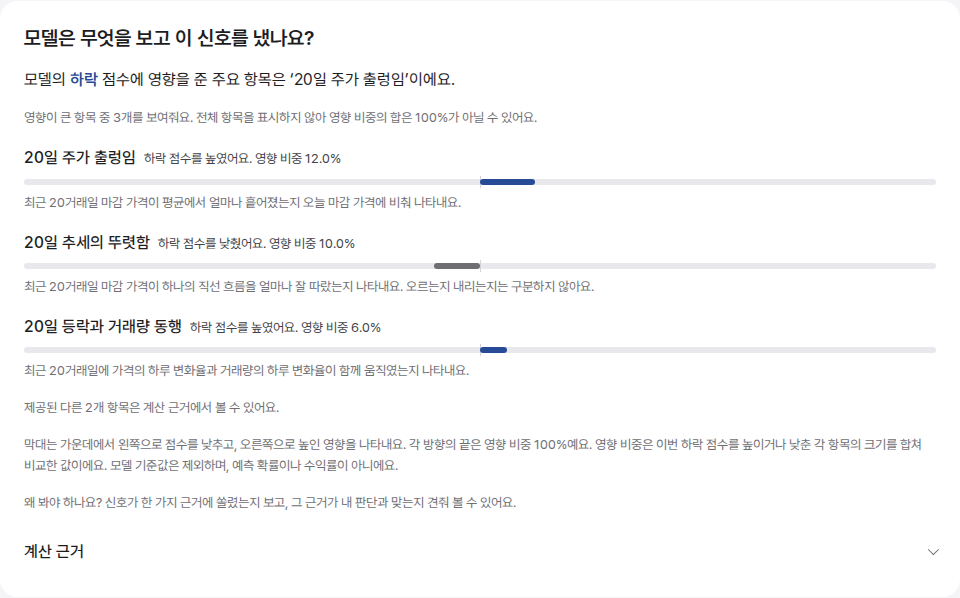
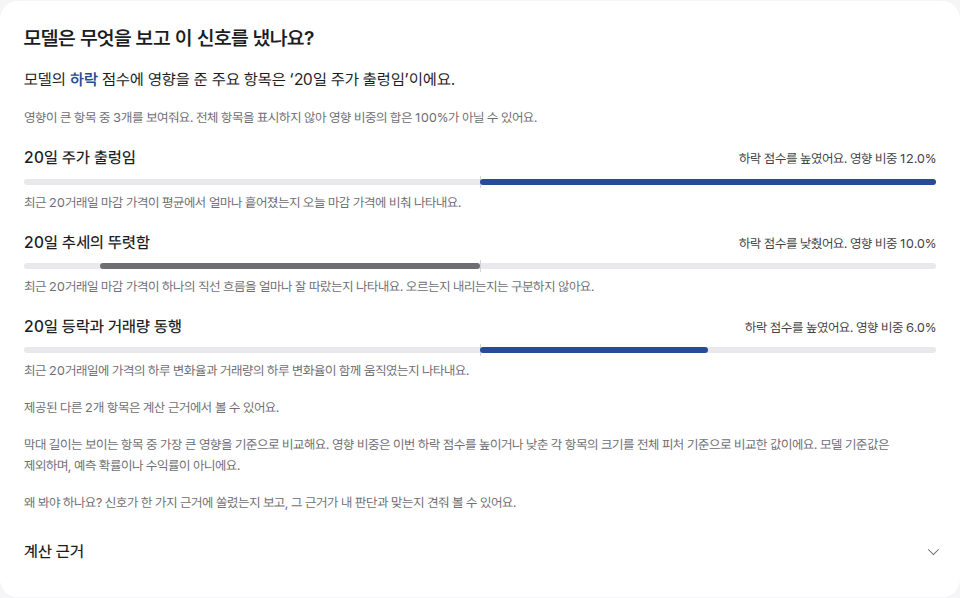
fix(web): preserve model reason layout and relative bars

diff --git a/frontend/app/components/insight-cards.tsx b/frontend/app/components/insight-cards.tsx
@@ -67,7 +67,7 @@ import {
 } from "@/lib/providers";
 import { CHART } from "@/lib/chart-colors";
 import ChangeText from "./change-text";
-import { changeMeta, contributionShare, contributionValue, contributionWord, formatShares, kstDay, signedPercent } from "@/lib/display";
+import { changeMeta, contributionValue, contributionWord, formatShares, kstDay, signedPercent } from "@/lib/display";
 import type { ChartSnapshot } from "@/lib/chart-public";
 import type { DataProvenance, PredictionReason, StockDetail, StyleAxes } from "@/lib/types";
 import { SourceTable } from "./source-line";
@@ -884,6 +884,7 @@ function ContributionPanel({
   // 본문은 상위 3개만 표시하되 비중의 분모는 서버가 보낸 전체 피처 합을 유지한다.
   const shown = features.slice(0, 3);
   const hiddenCount = features.length - shown.length;
+  const max = Math.max(...shown.map(feature => Math.abs(feature.contribution))) || 1;
 
   return (
     <>
@@ -898,25 +899,24 @@ function ContributionPanel({
       <ul className="m-0 flex list-none flex-col gap-4 p-0">
         {shown.map((feature) => {
           const up = feature.contribution > 0;
-          const share = contributionShare(feature.contribution, total);
           const color = !up || target === SIGNAL_WORD.flat ? "var(--color-muted)" : target === SIGNAL_WORD.down ? "var(--color-down)" : "var(--color-up)";
           return (
             <li key={feature.name} className="flex flex-col gap-2" data-model-feature={feature.name}>
-              <div className="flex flex-wrap items-baseline gap-x-2 gap-y-1">
-                <span className="text-sm font-medium text-ink">{feature.label_ko}</span>
-                <span className="text-xs text-body">{contributionWord(feature.contribution, target, total)}</span>
+              <div className="flex items-baseline gap-2">
+                <span className="min-w-0 text-sm font-medium text-ink">{feature.label_ko}</span>
+                <span className="ml-auto max-w-[55%] text-right text-xs text-body">{contributionWord(feature.contribution, target, total)}</span>
               </div>
-              {share !== undefined && <div className="relative h-1.5 rounded-full bg-track" aria-hidden>
+              <div className="relative h-1.5 rounded-full bg-track" aria-hidden>
                 <span className="absolute inset-y-[-3px] left-1/2 w-px bg-line" />
                 <span
                   className="absolute inset-y-0 rounded-full"
                   style={{
                     [up ? "left" : "right"]: "50%",
-                    width: `${share * 50}%`,
+                    width: `${Math.abs(feature.contribution) / max * 50}%`,
                     backgroundColor: color,
                   }}
                 />
-              </div>}
+              </div>
               <span className="text-xs text-muted">{featureDescription(feature.name)}</span>
             </li>
           );
@@ -925,23 +925,20 @@ function ContributionPanel({
       {hiddenCount > 0 && (
         <p className="m-0 text-xs text-muted">제공된 다른 {hiddenCount}개 항목은 계산 근거에서 볼 수 있어요.</p>
       )}
-      <p className="m-0 text-xs text-muted">{!total ? "전체 항목의 영향 크기 합이 없거나 0이라 영향 비중과 막대는 표시하지 않아요. " : "막대는 가운데에서 왼쪽으로 점수를 낮추고, 오른쪽으로 높인 영향을 나타내요. 각 방향의 끝은 영향 비중 100%예요. "}영향 비중은 이번 {target} 점수를 높이거나 낮춘 각 항목의 크기를 합쳐 비교한 값이에요. 모델 기준값은 제외하며, 예측 확률이나 수익률이 아니에요.</p>
+      <p className="m-0 text-xs text-muted">{!total && "전체 항목의 영향 크기 합이 없거나 0이라 영향 비중은 표시하지 않아요. "}막대 길이는 보이는 항목 중 가장 큰 영향을 기준으로 비교해요. 영향 비중은 이번 {target} 점수를 높이거나 낮춘 각 항목의 크기를 전체 피처 기준으로 비교한 값이에요. 모델 기준값은 제외하며, 예측 확률이나 수익률이 아니에요.</p>
       <Why>{why}</Why>
       <details className="disclosure">
         <summary>계산 근거</summary>
         <div className="flex flex-col gap-2">
-        <p className="m-0 text-xs text-muted">이번에 제공된 주요 항목 {features.length}개예요. 전체 모델 입력 목록은 아니에요.</p>
-        <dl className="m-0 flex flex-col gap-4 text-sm">
+        <dl className="m-0 grid grid-cols-[minmax(0,1fr)_auto] gap-x-3 gap-y-2 text-sm">
           {features.map(feature => (
-            <div key={feature.name} className="flex flex-col gap-1">
-              <dt className="font-medium">{feature.label_ko}</dt>
-              <dd className="m-0 text-xs text-muted">계산 방법: {feature.meaning_ko}</dd>
-              <dd className="m-0 break-words tabular-nums">모델에 넣은 값: {feature.value === null ? "미제공" : feature.value.toLocaleString("ko-KR", { maximumSignificantDigits: 8 })}</dd>
-              <dd className="m-0 tabular-nums">{target} 점수에 미친 영향: {contributionValue(feature.contribution)}</dd>
+            <div key={feature.name} className="contents">
+              <dt>{feature.label_ko}</dt>
+              <dd className="m-0 tabular-nums">{contributionValue(feature.contribution)}</dd>
             </div>
           ))}
         </dl>
-        <p className="m-0 text-xs text-muted">점수에 미친 영향은 모델 내부 점수를 높인 값(+)과 낮춘 값(−)이에요. 정해진 최솟값과 최댓값은 없어요. 영향 비중은 각 값의 절댓값을 전체 피처 절댓값 합{total !== undefined && `(${total.toPrecision(6)})`}으로 나눠 계산해요. 화면에 보이지 않는 항목도 분모에 포함하고 모델 기준값은 제외해요.</p>
+        <p className="m-0 text-xs text-muted">계산값은 {target} 점수를 높인 값(+)과 낮춘 값(−)이에요. 정해진 최솟값과 최댓값은 없어요.</p>
         </div>
       </details>
     </>

diff --git a/frontend/tests/e2e/chart-preview.spec.ts b/frontend/tests/e2e/chart-preview.spec.ts
@@ -87,8 +87,8 @@ test("feature shares use the whole-model denominator and raw values are collapse
   if (features.length > visible.length) await expect(model).toContainText(`제공된 다른 ${features.length - visible.length}개 항목`);
   await expect(model.locator("details.disclosure")).not.toHaveAttribute("open", "");
   await model.locator("summary", { hasText: "계산 근거" }).click();
-  await expect(model.locator("dd").filter({ hasText: "점수에 미친 영향:" }).first()).toContainText(features[0].contribution.toFixed(4));
-  await expect(model).toContainText("화면에 보이지 않는 항목도 분모에 포함");
+  await expect(model.locator("dd").first()).toContainText(features[0].contribution.toFixed(4));
+  await expect(model).toContainText("전체 피처 기준으로 비교한 값");
   await expect(model.locator("[data-model-feature]")).not.toContainText(["관측값", "크게", "조금"]);
   await page.setViewportSize({ width: 390, height: 844 });
   expect(await page.evaluate(() => document.documentElement.scrollWidth <= innerWidth)).toBe(true);
@@ -186,7 +186,7 @@ for (const [space, target, scores, color] of [
 }
 
 for (const total of [undefined, 0]) {
-  test(`missing or zero denominator (${total}) never invents a share or bar`, async ({ page }) => {
+  test(`missing or zero denominator (${total}) never invents a share`, async ({ page }) => {
     const selected = structuredClone(rows);
     for (const row of selected) {
       row.payload.inference.contribution_abs_sum = total;
@@ -197,13 +197,13 @@ for (const total of [undefined, 0]) {
     await page.getByRole("tab", { name: "모델이 본 이유" }).click();
     const panel = page.getByRole("tabpanel");
     await expect(panel.locator("[data-model-feature]")).toHaveCount(3);
-    await expect(panel.locator("[data-model-feature] [aria-hidden]")).toHaveCount(0);
+    await expect(panel.locator("[data-model-feature] [aria-hidden]")).toHaveCount(3);
     await expect(panel.locator("[data-model-feature]").first()).not.toContainText("영향 비중");
     if (total === 0) await expect(panel.locator("[data-model-feature]").first()).toContainText("바꾸지 않았어요");
   });
 }
 
-test("fixed bar scale uses the entire denominator and small values survive in calculation basis", async ({ page }) => {
+test("shares use the entire denominator while bars retain relative scaling and calculation basis stays compact", async ({ page }) => {
   const selected = structuredClone(rows);
   for (const row of selected) {
     row.payload.inference.contribution_abs_sum = 1;
@@ -219,14 +219,19 @@ test("fixed bar scale uses the entire denominator and small values survive in ca
   const items = panel.locator("[data-model-feature]");
   for (const index of [0, 1]) {
     await expect(items.nth(index)).toContainText("영향 비중 12.0%");
-    expect(await items.nth(index).locator("span[style]").getAttribute("style")).toContain("width: 6%");
+    expect(await items.nth(index).locator("span[style]").getAttribute("style")).toContain("width: 50%");
   }
   await expect(items.nth(2)).toContainText("영향 비중 0.1% 미만");
   await expect(items).not.toContainText(["관측값", "관측값", "관측값"]);
   await panel.getByText("계산 근거", { exact: true }).click();
   await expect(panel).toContainText("-1.200e-7");
-  await expect(panel).toContainText("모델에 넣은 값: 미제공");
-  await expect(panel).toContainText("전체 모델 입력 목록은 아니에요");
+  await expect(panel).not.toContainText("모델에 넣은 값:");
+  await expect(panel.locator("dd")).toHaveCount(5);
+  await expect(panel).not.toContainText("계산 방법:");
+  const headingRow = items.first().locator("div").first();
+  const rightText = headingRow.locator("span").last();
+  const [rowBounds, textBounds] = await Promise.all([headingRow.boundingBox(), rightText.boundingBox()]);
+  expect(Math.abs(rowBounds!.x + rowBounds!.width - textBounds!.x - textBounds!.width)).toBeLessThanOrEqual(1);
   for (const width of [320, 390, 1200]) {
     await page.setViewportSize({ width, height: 844 });
     expect(await page.evaluate(() => document.documentElement.scrollWidth <= innerWidth + 1)).toBe(true);

diff --git a/docs/qa/2026-10-27-model-reasons/README.md b/docs/qa/2026-10-27-model-reasons/README.md
@@ -1,6 +1,6 @@
 # 모델 근거 설명과 영향 비중 개선
 
-관련 이슈: #328, #420. 사용자 합의로 기존 이름은 유지하고 설명을 쉽게 바꾸며, 기존 '크게/조금' 대신 대상 클래스의 방향과 '영향 비중'을 함께 표시한다. 이전 영향 % 보류 결정을 대체하는 표시층 변경이다.
+관련 이슈: #328, #420. 사용자 합의로 기존 이름은 유지하고 설명을 쉽게 바꾸며, 기존 '크게/조금' 대신 대상 클래스의 방향과 '영향 비중'을 함께 표시한다. 이전 영향 % 보류 결정을 대체하는 표시층 변경이다. 후속 사용자 요청에 따라 기존 오른쪽 영향 문구 위치, 상대 막대 길이, 간결한 계산 근거 표를 유지한다.
 
 ## 전후 비교 조건
 
@@ -21,22 +21,22 @@
 
 - 영향 비중 = 이번 대상 클래스의 해당 기여값 절댓값 / 전체 피처 기여값 절댓값 합 × 100. 보이지 않는 항목을 포함하고 모델 기준값은 제외한다.
 - 방향과 크기를 분리한다. 예: '하락 점수를 높였어요. 영향 비중 12.0%'. 하락 확률이 12% 증가하거나 결과의 12%를 결정했다는 뜻이 아니다.
-- 가운데 0을 기준으로 낮춘 영향은 왼쪽, 높인 영향은 오른쪽이다. 각 방향 끝을 100%로 고정하므로 비중 12%의 막대는 전체 트랙의 6%다. 최댓값 항목마다 길이를 다시 늘리지 않는다.
-- 소수 첫째 자리까지 반올림한다. 양수 비중이 0.1% 미만이면 '0.1% 미만'으로 표시해 정확한 0과 구분한다. 분모 누락 또는 0이면 비중과 막대는 표시하지 않고 방향은 유지한다.
+- 가운데 0을 기준으로 낮춘 영향은 왼쪽, 높인 영향은 오른쪽이다. 기존처럼 보이는 항목의 최대 절댓값을 기준으로 각 방향 길이를 정한다. 영향 비중은 전체 피처 합, 막대는 보이는 항목 최댓값 기준이므로 서로 다른 비교임을 안내한다. 영향 문구는 기존 행 오른쪽에 둔다.
+- 소수 첫째 자리까지 반올림한다. 양수 비중이 0.1% 미만이면 '0.1% 미만'으로 표시해 정확한 0과 구분한다. 분모 누락 또는 0이면 비중을 표시하지 않고 방향과 기존 상대 막대는 유지한다.
 - 본문은 최대 3개, 계산 근거는 서버가 제공한 상위 최대 5개다. 전체 모델 입력 목록으로 부르지 않는다.
-- 기존 관측값과 계산식은 계산 근거로 이동했다. 기여값은 별도로 구분하며 작은 값은 지수 표기로 보존한다. 내부 원점수의 고정 범위가 없음을 설명한다.
+- 관측값과 원래 계산식은 화면에서 제거했다. 계산 근거는 기존처럼 항목명과 부호 있는 기여값만 나열하고 작은 값은 지수 표기로 보존한다. 내부 원점수의 고정 범위가 없음을 설명한다.
 
 ## 설명 사전
 
 - [48종 설명 패턴 전체 전후 비교](FEATURE-DESCRIPTIONS.md)
 - [기간별 170개 전체 전후 비교, 서버 이름 포함](FEATURE-DESCRIPTIONS-170.md)
 
-이름과 서버 메타데이터, 계산식과 모델은 그대로다. 피처 정의는 공유 builder와 수급 계산을 참고해 작성했다. 가격 수준/변화율, 오른 날/오른 폭, 고저 범위 위치/마감 순위를 구분했다. 캔들 고가/저가 간격을 장중 이동 순서로 설명하지 않는다. 계산 근거는 서버의 기존 설명을 보존하므로 서버 설명의 생략된 항이나 분모 보정까지 새로 수정한 것은 아니다.
+이름과 서버 메타데이터, 계산식과 모델은 그대로다. 피처 정의는 공유 builder와 수급 계산을 참고해 작성했다. 가격 수준/변화율, 오른 날/오른 폭, 고저 범위 위치/마감 순위를 구분했다. 캔들 고가/저가 간격을 장중 이동 순서로 설명하지 않는다. 서버 설명 메타데이터와 계산은 변경하지 않는다.
 
 ## 검증
 
 - `corepack pnpm test:unit`: 176개 통과. 170개 설명의 누락, 기간 치환과 금지 표현을 검사한다. 전체 분모, 양/음/0, 분모 누락/0, 아주 작은 비중과 기여값 표기를 검사한다.
 - `corepack pnpm lint`, `corepack pnpm build`: 통과.
-- `playwright test tests/e2e/chart-preview.spec.ts`: 12개 통과. 상승/중립/하락 방향, 전체 분모 기반 수치와 고정 막대, 분모 누락/0, 작은 기여값, 입력값 미제공, 계산 근거 보존과 320/390/1200px 가로 넘침을 확인했다.
+- `playwright test tests/e2e/chart-preview.spec.ts`: 12개 통과. 상승/중립/하락 방향, 전체 분모 기반 수치와 기존 상대 막대, 오른쪽 문구 정렬, 분모 누락/0, 작은 기여값, 간결한 계산 근거와 320/390/1200px 가로 넘침을 확인했다.
 - 같은 합성 응답으로 전후 이미지 8장 캡처, 개선 후 모바일과 계산 근거 이미지 시각 확인.
 - 실제 사용자 이해도 평가와 실제 iOS/Android 기기 검증은 하지 않았다. Python, 모델/pack, DB, 운영 설정은 변경하지 않았다.

diff --git a/frontend/DESIGN.md b/frontend/DESIGN.md
@@ -76,11 +76,11 @@
 
 ### 모델 근거의 영향 비중 (2026-10-27, #328, #420 사용자 합의)
 
-- 피처 이름은 기존 사전을 유지하고 막대 아래에는 `featureLabels.ts`의 쉬운 설명을 쓴다. 관측값과 원래 계산식은 블록 맨 아래 '계산 근거' 하나에 둔다.
-- 문구는 '하락 점수를 높였어요. 영향 비중 12.0%'처럼 대상 클래스, 방향과 비중을 구분한다. '크게/조금', '결과의 N%를 결정', 확률 변화 해석은 쓰지 않는다.
-- 영향 비중 = 해당 기여값 절댓값 / 대상 클래스의 전체 피처 기여값 절댓값 합. 모델 기준값은 제외하며, 보이지 않는 항목도 분모에 포함한다. 분모가 없거나 0이면 비중과 막대를 표시하지 않는다.
-- 막대는 가운데 0, 왼쪽 낮춤, 오른쪽 높임이다. 각 방향 끝은 영향 비중 100%로 고정해 같은 비중을 같은 길이로 표시한다. 양수는 대상 클래스 방향 색(상승 적, 하락 청, 중립 회색), 음수는 회색이다.
-- 목록 위에 표시 개수와 일부 항목임을 밝히고, 합이 100%가 아닐 수 있음을 설명한다. 계산 근거도 '제공된 주요 항목'으로 범위를 명시한다.
+- 피처 이름은 기존 사전을 유지하고 막대 아래에는 `featureLabels.ts`의 쉬운 설명을 쓴다. 관측값은 화면에서 제거하고 '계산 근거'는 기존처럼 항목명과 부호 있는 기여값만 나열한다.
+- 문구는 '하락 점수를 높였어요. 영향 비중 12.0%'처럼 대상 클래스, 방향과 비중을 구분하고 기존 항목 행의 오른쪽에 둔다. '크게/조금', '결과의 N%를 결정', 확률 변화 해석은 쓰지 않는다.
+- 영향 비중 = 해당 기여값 절댓값 / 대상 클래스의 전체 피처 기여값 절댓값 합. 모델 기준값은 제외하며, 보이지 않는 항목도 분모에 포함한다. 분모가 없거나 0이면 비중은 표시하지 않는다.
+- 막대는 가운데 0, 왼쪽 낮춤, 오른쪽 높임이다. 막대 길이는 기존처럼 보이는 항목 중 가장 큰 절댓값을 기준으로 정규화한다. 영향 비중 %와 막대 길이는 분모가 다름을 안내한다. 양수는 대상 클래스 방향 색(상승 적, 하락 청, 중립 회색), 음수는 회색이다.
+- 목록 위에 표시 개수와 일부 항목임을 밝히고, 합이 100%가 아닐 수 있음을 설명한다. 계산 근거에는 서버가 제공한 항목만 나열하고 전체 모델 입력 목록이라고 부르지 않는다.
 - 기여값은 범위가 고정되지 않은 내부 원점수다. 계산 근거에 고정 최솟값과 최댓값이 없음을 설명하고 임의 범위를 붙이지 않는다. 작은 값은 0으로 뭉개지 않고 지수 표기로 보존한다.
 
 ### 극 이름 규칙 (2026-10-26)

diff --git a/docs/qa/2026-10-27-model-reasons/FEATURE-DESCRIPTIONS.md b/docs/qa/2026-10-27-model-reasons/FEATURE-DESCRIPTIONS.md
@@ -1,6 +1,6 @@
 # 설명 사전 전후 비교
 
-이름은 유지한다. 기본 161개와 선택 수급 9개를 설명 패턴 48종으로 정리했다. N은 기본 피처 5/10/20/30/60거래일, 수급 1/5/20거래일이다. 이전 서버 설명은 계산 근거에 보존하고 본문의 설명만 교체한다. 현재 서버 문구를 옮긴 것이며 기존 설명의 완전성을 승인하는 문서는 아니다. 가운데 점은 쉼표로 표시했다.
+이름은 유지한다. 기본 161개와 선택 수급 9개를 설명 패턴 48종으로 정리했다. N은 기본 피처 5/10/20/30/60거래일, 수급 1/5/20거래일이다. 서버 설명 메타데이터는 변경하지 않고 본문에는 새 설명을 사용한다. 계산 근거는 항목명과 부호 있는 기여값만 표시한다. 현재 서버 문구를 옮긴 것이며 기존 설명의 완전성을 승인하는 문서는 아니다. 가운데 점은 쉼표로 표시했다.
 
 | 코드 | 이름, 변경 없음 | 변경 전 설명 | 변경 후 설명 |
 |---|---|---|---|

diff --git a/docs/qa/2026-10-27-model-reasons/FEATURE-DESCRIPTIONS-170.md b/docs/qa/2026-10-27-model-reasons/FEATURE-DESCRIPTIONS-170.md
@@ -2,7 +2,7 @@
 
 각 pack의 실제 사용 입력은 해당 pack 목록을 따른다. 서버 이름과 서버 설명은 변경하지 않는다. 본문 이름은 기존 사전을 유지한다. 계산식의 작은 분모 보정과 거래정지 처리는 기존 builder를 따른다.
 
-| 코드 | 화면 이름, 변경 없음 | 서버 이름, 변경 없음 | 변경 전 설명, 계산 근거에 보존 | 변경 후 본문 설명 |
+| 코드 | 화면 이름, 변경 없음 | 서버 이름, 변경 없음 | 변경 전 설명, 서버 원문 | 변경 후 본문 설명 |
 |---|---|---|---|---|
 | Change | 하루 등락률 | 전일 대비 등락 | 수정종가의 전일 대비 변화율 | 오늘 마감 가격이 전날 마감 가격보다 얼마나 달라졌는지 나타내요. |
 | kmid | 하루 시가 대비 종가 | 장중 종가 이동 | 시가 대비 종가 이동 비율 | 시작 가격에 비해 마감 가격이 얼마나 오르거나 내렸는지 나타내요. |
